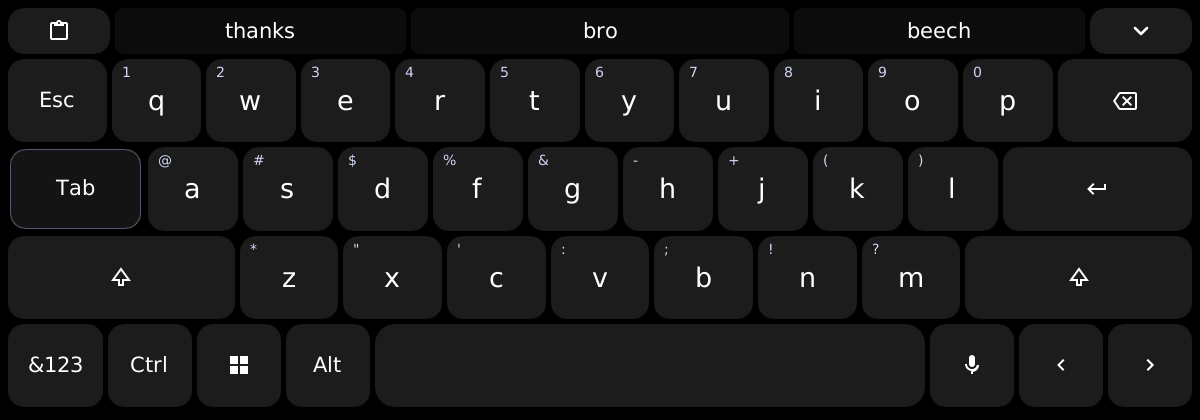
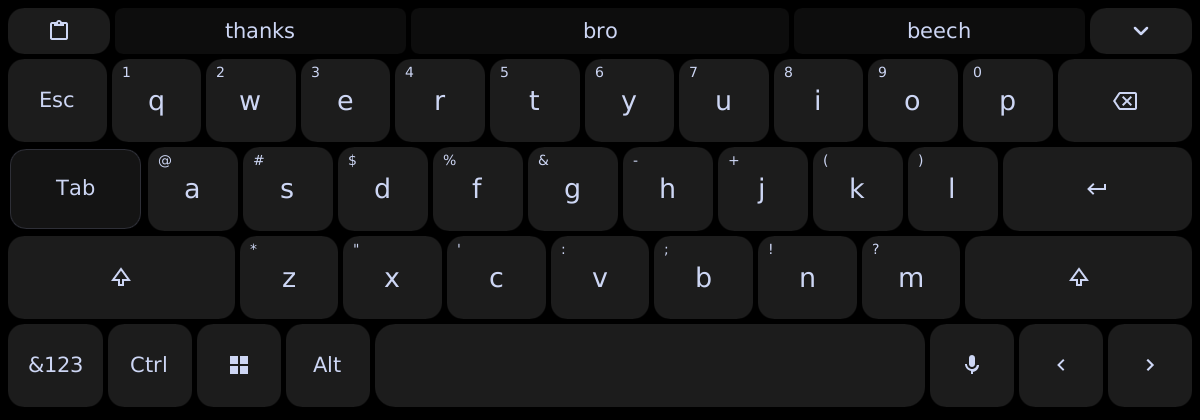
feat(theme): add dynamic JSON colors and set OLED black fallback

diff --git a/src/render/slint.rs b/src/render/slint.rs
@@ -18,9 +18,20 @@ use slint::{LogicalSize, Model, ModelRc, PhysicalSize, VecModel, Window};
 use crate::layout::KeyboardLayout;
 use crate::layout::key::KeyAction;
 use crate::render::engine::RenderEngine;
+use crate::render::theme::Color as ThemeColor;
 use crate::wayland::state::HoldPreview;
 
 slint::include_modules!();
+
+fn parse_slint_color(hex_opt: Option<&String>, fallback: slint::Color) -> slint::Color {
+    match hex_opt {
+        Some(s) if !s.trim().is_empty() => {
+            let c = ThemeColor::parse_hex(s);
+            slint::Color::from_argb_u8(c.a, c.r, c.g, c.b)
+        }
+        _ => fallback,
+    }
+}
 
 /// Icon codes shared with `ui/osk.slint` `Key.icon`.
 pub mod icon {
@@ -317,41 +328,51 @@ impl SlintScene {
                 osk_theme.set_space_radius(20.0);
             }
 
+            let colors = layout.colors.as_ref();
             let blur_enabled = layout.blur.unwrap_or(false);
-            if blur_enabled {
+
+            let (default_dock_bg, default_clipboard_bg, default_key_bg, default_key_bg_pressed) = if blur_enabled {
                 let dock_alpha = (layout.opacity.unwrap_or(0.60) * 255.0).clamp(0.0, 255.0) as u8;
                 let key_alpha = (layout.key_opacity.unwrap_or(0.50) * 255.0).clamp(0.0, 255.0) as u8;
-
-                osk_theme.set_dock_bg(slint::Color::from_argb_u8(
-                    dock_alpha,
-                    theme.background.r,
-                    theme.background.g,
-                    theme.background.b,
-                ));
-                osk_theme.set_clipboard_bg(slint::Color::from_argb_u8(
-                    dock_alpha,
-                    (theme.background.r as f32 * 0.8) as u8,
-                    (theme.background.g as f32 * 0.8) as u8,
-                    (theme.background.b as f32 * 0.8) as u8,
-                ));
-                osk_theme.set_key_bg(slint::Color::from_argb_u8(
-                    key_alpha,
-                    theme.key_background.r,
-                    theme.key_background.g,
-                    theme.key_background.b,
-                ));
-                osk_theme.set_key_bg_pressed(slint::Color::from_argb_u8(
-                    170,
-                    theme.key_pressed.r,
-                    theme.key_pressed.g,
-                    theme.key_pressed.b,
-                ));
+                (
+                    slint::Color::from_argb_u8(dock_alpha, theme.background.r, theme.background.g, theme.background.b),
+                    slint::Color::from_argb_u8(
+                        dock_alpha,
+                        (theme.background.r as f32 * 0.8) as u8,
+                        (theme.background.g as f32 * 0.8) as u8,
+                        (theme.background.b as f32 * 0.8) as u8,
+                    ),
+                    slint::Color::from_argb_u8(key_alpha, theme.key_background.r, theme.key_background.g, theme.key_background.b),
+                    slint::Color::from_argb_u8(170, theme.key_pressed.r, theme.key_pressed.g, theme.key_pressed.b),
+                )
             } else {
-                osk_theme.set_dock_bg(slint::Color::from_argb_u8(255, 0, 0, 0));
-                osk_theme.set_clipboard_bg(slint::Color::from_argb_u8(255, 17, 17, 17));
-                osk_theme.set_key_bg(slint::Color::from_argb_u8(255, 28, 28, 28));
-                osk_theme.set_key_bg_pressed(slint::Color::from_argb_u8(255, 20, 20, 20));
-            }
+                (
+                    slint::Color::from_argb_u8(255, 0, 0, 0),
+                    slint::Color::from_argb_u8(255, 17, 17, 17),
+                    slint::Color::from_argb_u8(255, 28, 28, 28),
+                    slint::Color::from_argb_u8(255, 20, 20, 20),
+                )
+            };
+
+            osk_theme.set_dock_bg(parse_slint_color(colors.and_then(|c| c.dock_bg.as_ref()), default_dock_bg));
+            osk_theme.set_clipboard_bg(parse_slint_color(colors.and_then(|c| c.clipboard_bg.as_ref()), default_clipboard_bg));
+            osk_theme.set_key_bg(parse_slint_color(colors.and_then(|c| c.key_bg.as_ref()), default_key_bg));
+            osk_theme.set_key_bg_pressed(parse_slint_color(colors.and_then(|c| c.key_bg_pressed.as_ref()), default_key_bg_pressed));
+
+            let default_text_color = slint::Color::from_argb_u8(theme.text_color.a, theme.text_color.r, theme.text_color.g, theme.text_color.b);
+            let default_sub_color = slint::Color::from_argb_u8(255, 205, 214, 244); // Catppuccin Mocha text
+            let default_accent_color = slint::Color::from_argb_u8(theme.accent_color.a, theme.accent_color.r, theme.accent_color.g, theme.accent_color.b);
+            let default_border_color = slint::Color::from_argb_u8(theme.border_color.a, theme.border_color.r, theme.border_color.g, theme.border_color.b);
+
+            osk_theme.set_text_color(parse_slint_color(colors.and_then(|c| c.text_color.as_ref()), default_text_color));
+            osk_theme.set_text_color_pressed(parse_slint_color(colors.and_then(|c| c.text_color_pressed.as_ref()), default_text_color));
+            osk_theme.set_sub_color(parse_slint_color(colors.and_then(|c| c.sub_color.as_ref()), default_sub_color));
+            osk_theme.set_icon_color(parse_slint_color(colors.and_then(|c| c.icon_color.as_ref()), default_text_color));
+            osk_theme.set_icon_color_pressed(parse_slint_color(colors.and_then(|c| c.icon_color_pressed.as_ref()), default_accent_color));
+            osk_theme.set_accent_color(parse_slint_color(colors.and_then(|c| c.accent_color.as_ref()), default_accent_color));
+            osk_theme.set_border_color(parse_slint_color(colors.and_then(|c| c.border_color.as_ref()), default_border_color));
+            osk_theme.set_suggest_bg(parse_slint_color(colors.and_then(|c| c.suggest_bg.as_ref()), slint::Color::from_argb_u8(13, 255, 255, 255)));
+            osk_theme.set_suggest_bg_pressed(parse_slint_color(colors.and_then(|c| c.suggest_bg_pressed.as_ref()), slint::Color::from_argb_u8(46, 255, 255, 255)));
 
             let rects = RenderEngine::calculate_key_rects(layout, width, height, theme);
             let mut keys = Vec::new();

diff --git a/src/config.rs b/src/config.rs
@@ -45,7 +45,7 @@ impl Default for GeneralConfig {
             margin_horizontal: 0,
             corner_radius: 0.0,
             exclusive_zone: true,
-            theme_name: "catppuccin".to_string(),
+            theme_name: "oled".to_string(),
             layout_mode: "desktop".to_string(),
             layout_file: None,
         }
@@ -71,14 +71,14 @@ pub struct ThemeConfig {
 impl Default for ThemeConfig {
     fn default() -> Self {
         Self {
-            background: "#1e1e2ecc".to_string(),     // Catppuccin Mocha base with alpha
-            key_background: "#313244".to_string(), // Surface0
-            key_pressed: "#89b4fa".to_string(),    // Blue accent on press
-            key_special: "#45475a".to_string(),    // Surface1 for shift/enter/del
-            text_color: "#cdd6f4".to_string(),     // Text
-            text_special: "#f5e0dc".to_string(),   // Rosewater
-            accent_color: "#cba6f7".to_string(),   // Mauve
-            border_color: "#585b7066".to_string(), // Surface2
+            background: "#000000f5".to_string(),     // Deep solid black base
+            key_background: "#181818".to_string(), // Dark neutral key surface
+            key_pressed: "#0096ff".to_string(),    // Accent on press
+            key_special: "#262626".to_string(),    // Subtle dark for functional keys
+            text_color: "#f0f0f0".to_string(),     // Crisp light legend text
+            text_special: "#ffd700".to_string(),   // Gold/warm accent for special text
+            accent_color: "#00c8ff".to_string(),   // Bright accent
+            border_color: "#3c3c3c78".to_string(), // Muted border
             border_width: 1.0,
             key_radius: 8.0,
             key_spacing: 6.0,

diff --git a/src/layout/custom.rs b/src/layout/custom.rs
@@ -150,9 +150,30 @@ pub struct CustomLayoutFile {
     /// Optional key background opacity override (e.g. 0.50 for 50% opacity)
     #[serde(default)]
     pub key_opacity: Option<f32>,
+    /// Optional color palette overrides
+    #[serde(default)]
+    pub colors: Option<LayoutColors>,
     /// Layers map: "lower", "upper", "symbols", "symbols2"
     #[serde(default)]
     pub layers: HashMap<String, Vec<MatrixRow>>,
+}
+
+/// Optional color theme overrides defined in the layout JSON
+#[derive(Debug, Clone, Default, PartialEq, Serialize, Deserialize)]
+pub struct LayoutColors {
+    pub dock_bg: Option<String>,
+    pub key_bg: Option<String>,
+    pub key_bg_pressed: Option<String>,
+    pub clipboard_bg: Option<String>,
+    pub text_color: Option<String>,
+    pub text_color_pressed: Option<String>,
+    pub sub_color: Option<String>,
+    pub icon_color: Option<String>,
+    pub icon_color_pressed: Option<String>,
+    pub accent_color: Option<String>,
+    pub border_color: Option<String>,
+    pub suggest_bg: Option<String>,
+    pub suggest_bg_pressed: Option<String>,
 }
 
 fn default_layout_name() -> String {
@@ -342,6 +363,7 @@ impl CustomLayoutFile {
             blur: self.blur,
             opacity: self.opacity,
             key_opacity: self.key_opacity,
+            colors: self.colors.clone(),
         };
 
         // Always prepend the standard top action/suggestion bar

diff --git a/src/layout/layouts.rs b/src/layout/layouts.rs
@@ -46,6 +46,8 @@ pub struct KeyboardLayout {
     pub opacity: Option<f32>,
     /// Optional key background opacity override (e.g. 0.50)
     pub key_opacity: Option<f32>,
+    /// Optional color palette overrides
+    pub colors: Option<crate::layout::custom::LayoutColors>,
 }
 
 impl KeyboardLayout {
@@ -128,6 +130,7 @@ impl KeyboardLayout {
             blur: None,
             opacity: None,
             key_opacity: None,
+            colors: None,
         }
     }
 
